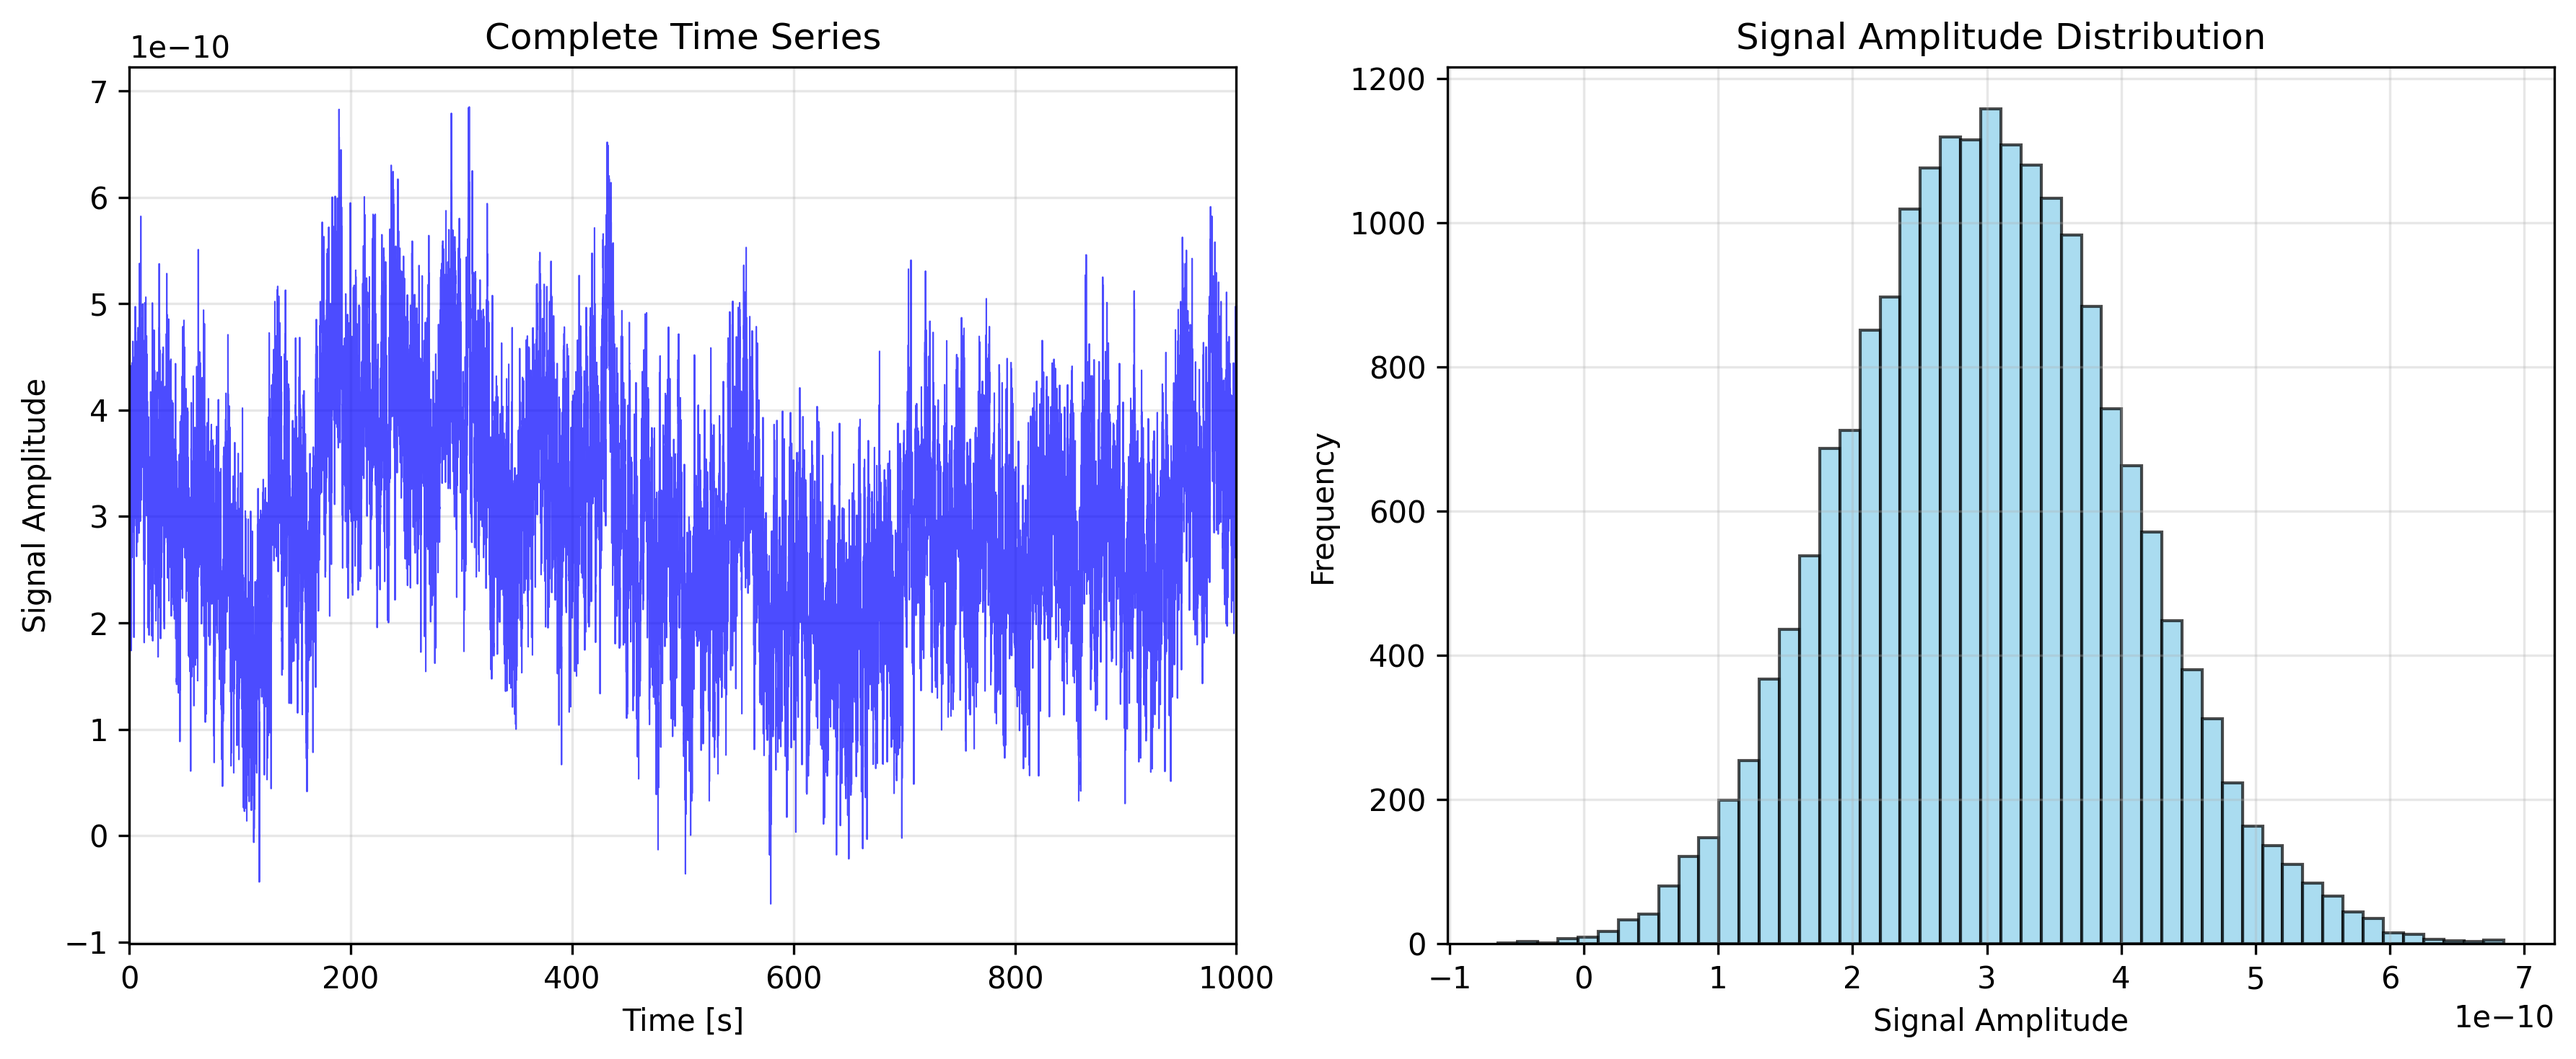
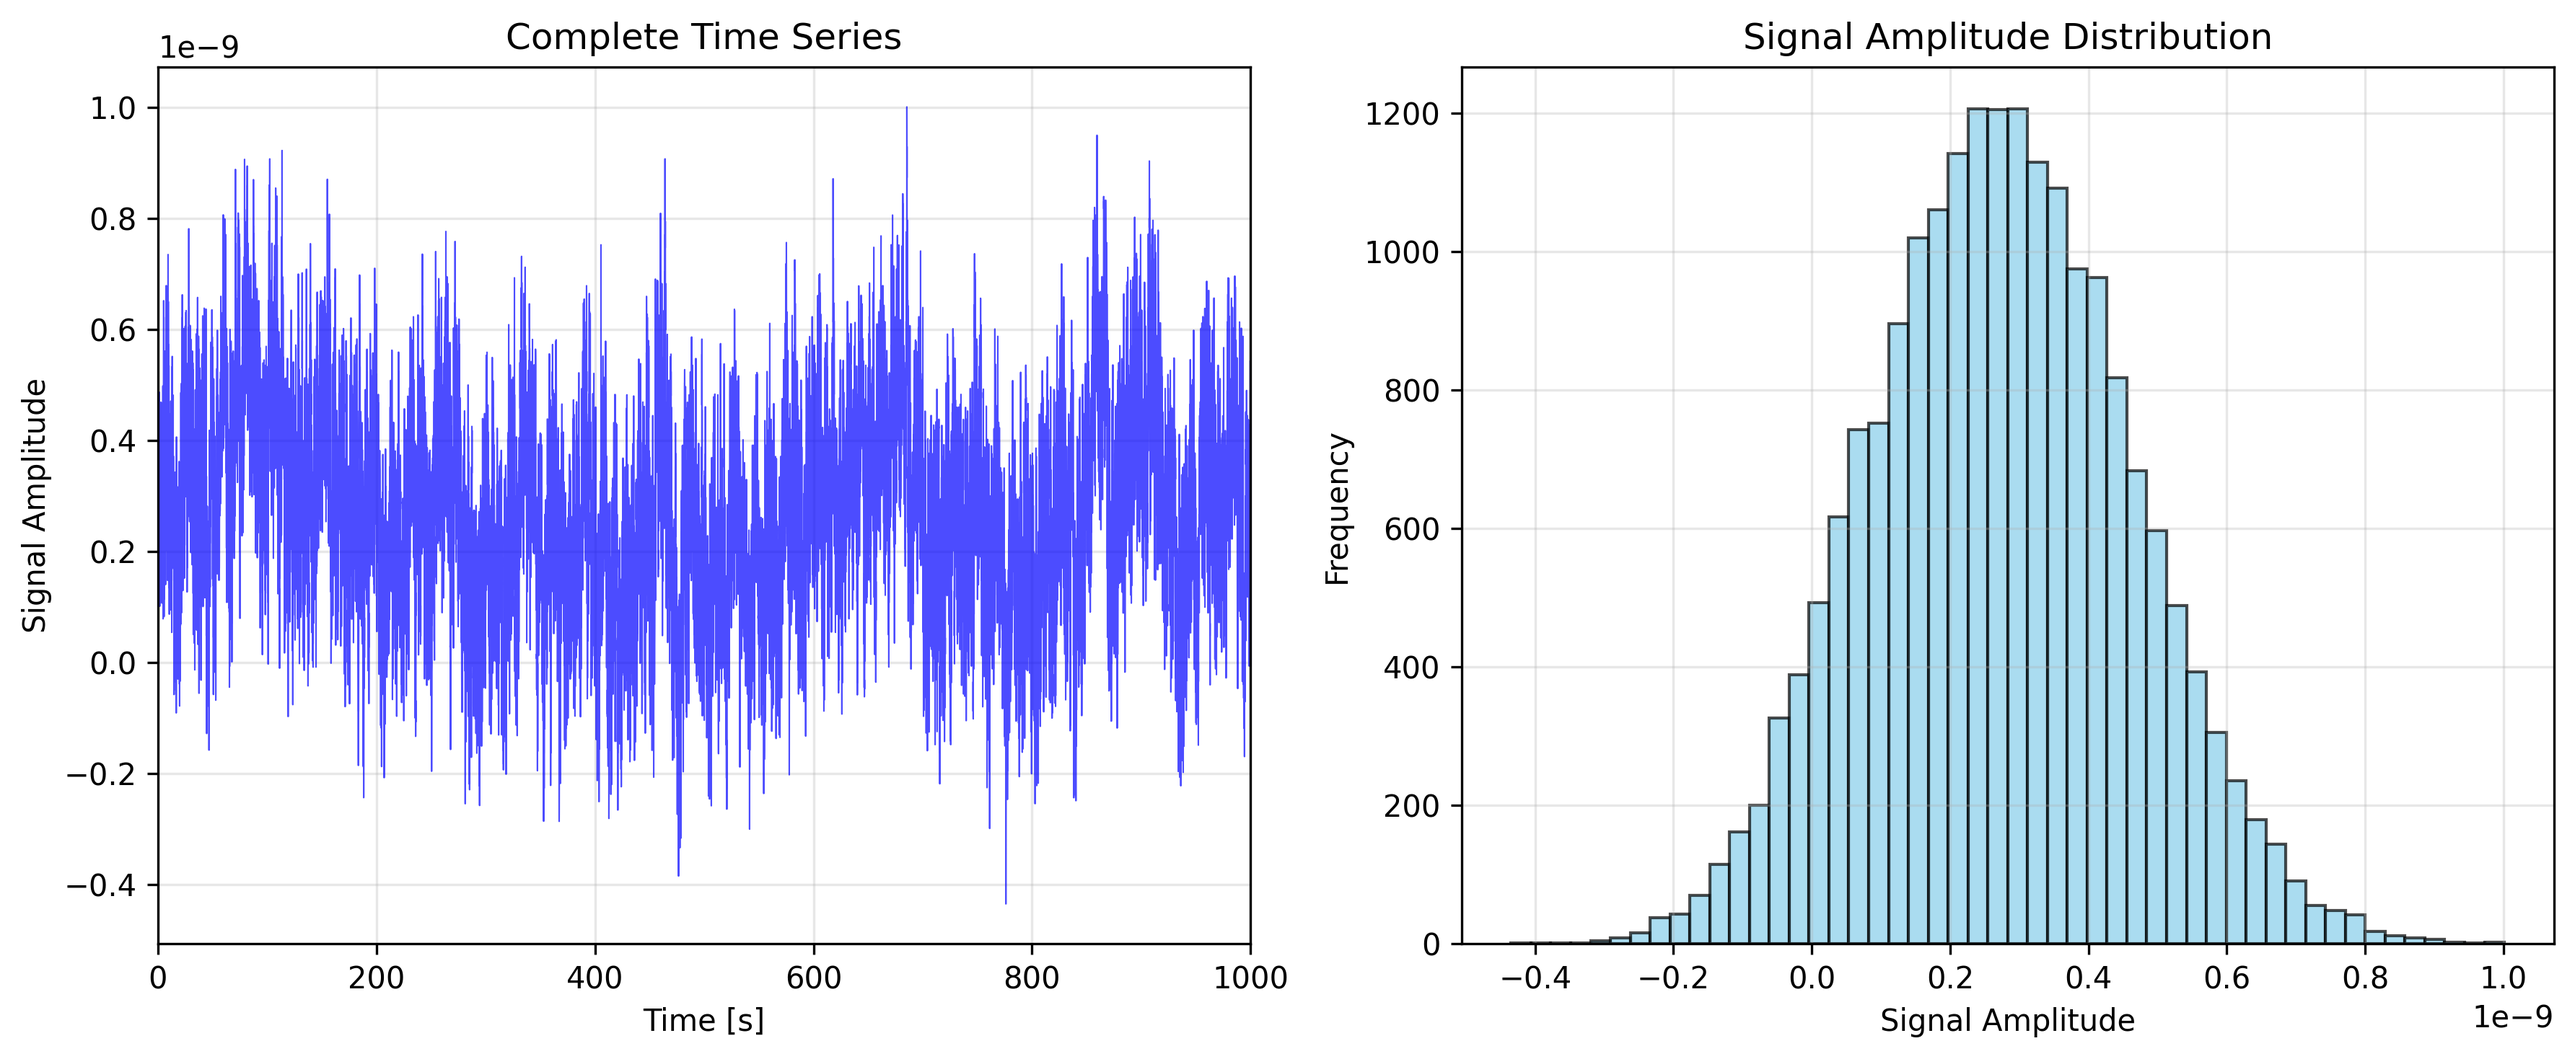
Add pink noise generation using colorednoise library
Refactored charge noise simulation to support pink noise generation via the colorednoise library. The generate_charge_noise function now accepts parameters for sample count, time step, and noise method, improving flexibility. Updated plotting and analysis to use the new method and parameters.

diff --git a/charge_noise_simulation.py b/charge_noise_simulation.py
@@ -13,16 +13,15 @@ from scipy import signal
 from scipy.fft import fft, fftfreq
 from scipy.signal import welch
 import pandas as pd
+import colorednoise as cn
 
 # Set random seed for reproducible results
 # np.random.seed(42)
 
-def generate_charge_noise():
+def generate_charge_noise(n_samples, dt, method='white'):
     """Generate charge noise time series"""
     
     # Parameter settings
-    n_samples = 20000
-    dt = 50e-3  # 50 milliseconds
     total_time = n_samples * dt
     
     # Generate time axis
@@ -35,24 +34,31 @@ def generate_charge_noise():
     
     # Generate base signal (can be DC bias)
     base_signal = 3e-10  # Base bias
+    fluctuation_amplitude = 2e-10
     
     # Generate different types of noise
     
     # 1. White noise (Gaussian noise)
-    white_noise = np.random.normal(0, 2e-10, n_samples)
+    white_noise = np.random.normal(0, fluctuation_amplitude, n_samples)
     
     # 2. 1/f noise (pink noise)
     # Generate 1/f noise by filtering white noise
     frequencies = fftfreq(n_samples, dt)
     positive_freq_mask = frequencies > 0
     
-    # Generate 1/f noise
-    white_noise_fft = fft(white_noise)
-    pink_noise_fft = white_noise_fft.copy()
-    pink_noise_fft[positive_freq_mask] /= np.sqrt(frequencies[positive_freq_mask])  # A(f) = 1/sqrt(f)
-    pink_noise_fft[~positive_freq_mask] = 0  # Handle negative frequencies
-    pink_noise = np.real(np.fft.ifft(pink_noise_fft))
-    # generate directly 
+    if method == 'white':
+        # Generate 1/f noise
+        white_noise_fft = fft(white_noise)
+        pink_noise_fft = white_noise_fft.copy()
+        pink_noise_fft[positive_freq_mask] /= np.sqrt(frequencies[positive_freq_mask])  # A(f) = 1/sqrt(f)
+        pink_noise_fft[~positive_freq_mask] = 0  # Handle negative frequencies
+        pink_noise = np.real(np.fft.ifft(pink_noise_fft))
+    elif method == 'pink':
+        # generate directly 
+        pink_noise = fluctuation_amplitude * cn.powerlaw_psd_gaussian(1, n_samples)
+    else:
+        raise ValueError(f"Invalid method: {method}")
+
     # 3. Random walk noise (Brownian noise)
     brown_noise = np.cumsum(white_noise) * 0.01
     
@@ -142,16 +148,19 @@ def plot_spectrum(freq_positive, psd_positive, method):
     plt.tight_layout()
     plt.savefig(f'spectrum_analysis_{method}.png', dpi=300, bbox_inches='tight')
 
+n_samples = 20000
+dt = 50e-3  # 50 milliseconds
+
 # Generate charge noise
-t, signal_with_noise, white_noise, pink_noise, base_signal = generate_charge_noise()
+t, signal_with_noise, white_noise, pink_noise, base_signal = generate_charge_noise(n_samples, dt, method='pink')
     
 # Plot time series
 plot_time_series(t, signal_with_noise, white_noise, pink_noise)
     
 # Spectral analysis (Welch)
-freq_welch, psd_welch = analyze_spectrum_welch(signal_with_noise, 50e-3)
+freq_welch, psd_welch = analyze_spectrum_welch(signal_with_noise, dt)
 plot_spectrum(freq_welch, psd_welch, "Welch")
 
 # Spectral analysis (FFT)
-freq_positive, psd_positive = analyze_spectrum_fft(signal_with_noise, 50e-3)
+freq_positive, psd_positive = analyze_spectrum_fft(signal_with_noise, dt)
 plot_spectrum(freq_positive, psd_positive, "FFT")
